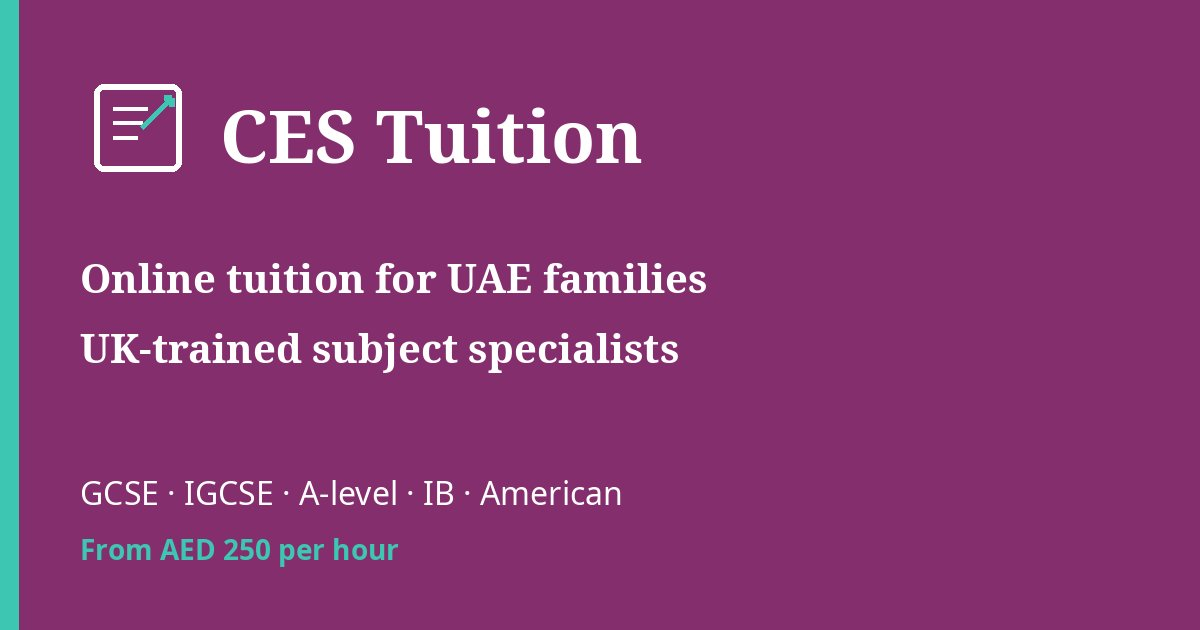
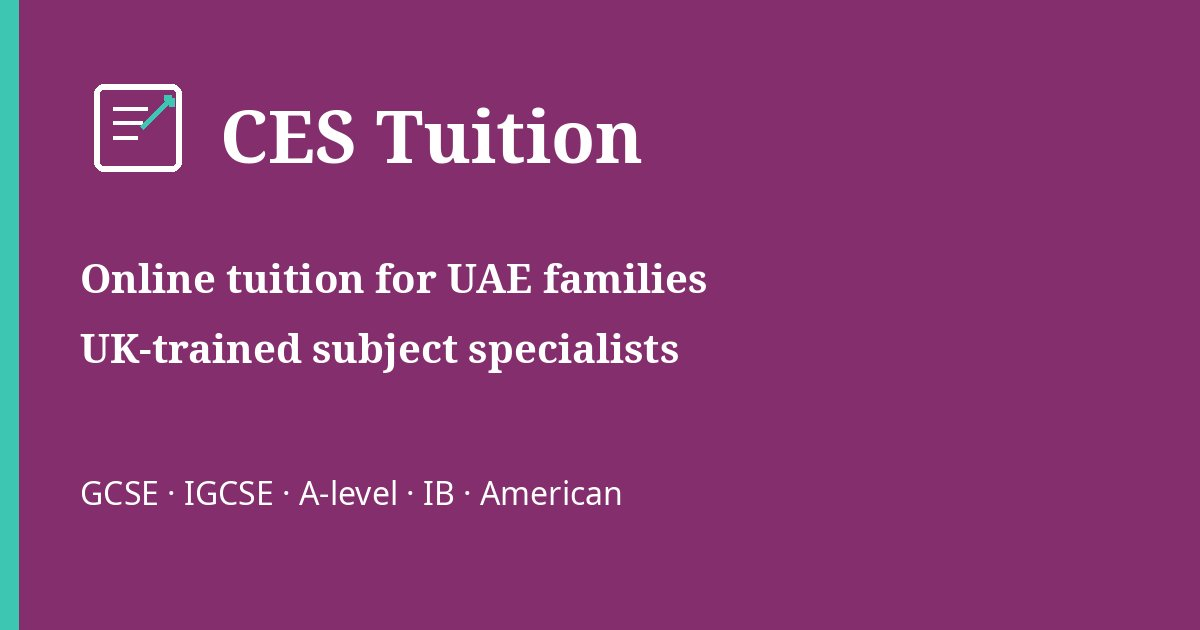
Remove the published hourly price.
Keep the review line and the tiers, and point parents to WhatsApp for prices.

Changed region(s): [[0.0617, 0.8444, 0.3392, 0.9048]]

diff --git a/index.html b/index.html
@@ -5,18 +5,18 @@
     <meta charset="UTF-8" />
     <meta name="viewport" content="width=device-width, initial-scale=1.0" />
     <title>Online Tutors in the UAE | GCSE, IGCSE, A-level, IB and American | CES Tuition</title>
-    <meta name="description" content="UK-trained subject specialists teaching GCSE, IGCSE, A-level, IB and American curricula live online for families across the UAE. 38 five-star reviews. From AED 250 per hour." />
+    <meta name="description" content="UK-trained subject specialists teaching GCSE, IGCSE, A-level, IB and American curricula live online for families across the UAE. 38 five-star reviews." />
     <link rel="canonical" href="https://www.cestuition.com/" />
     <meta property="og:type" content="website" />
     <meta property="og:url" content="https://www.cestuition.com/" />
     <meta property="og:title" content="CES Tuition: UK-trained online tutors for UAE families" />
-    <meta property="og:description" content="GCSE, IGCSE, A-level, IB and American curricula, live online across all emirates. From AED 250 per hour." />
+    <meta property="og:description" content="GCSE, IGCSE, A-level, IB and American curricula, live online across all emirates." />
     <meta property="og:image" content="https://www.cestuition.com/og-image.jpg" />
     <meta property="og:image:width" content="1200" />
     <meta property="og:image:height" content="630" />
     <meta name="twitter:card" content="summary_large_image" />
     <meta name="twitter:title" content="CES Tuition: UK-trained online tutors for UAE families" />
-    <meta name="twitter:description" content="GCSE, IGCSE, A-level, IB and American curricula, live online across all emirates. From AED 250 per hour." />
+    <meta name="twitter:description" content="GCSE, IGCSE, A-level, IB and American curricula, live online across all emirates." />
     <meta name="twitter:image" content="https://www.cestuition.com/og-image.jpg" />
     <link rel="icon" href="/favicon.svg" type="image/svg+xml" />
     <link rel="icon" href="/favicon.ico" sizes="any" />

diff --git a/src/components/Pricing.tsx b/src/components/Pricing.tsx
@@ -1,6 +1,7 @@
 import { Button } from '@/components/ui/button'
 import { Card } from '@/components/ui/card'
 import { Check } from '@phosphor-icons/react'
+import { whatsappUrl } from '@/lib/whatsapp'
 
 const pricingTiers = [
   {
@@ -41,8 +42,10 @@ export function Pricing() {
           <h2 className="text-3xl sm:text-4xl md:text-5xl font-bold text-foreground mb-6">
             Pricing
           </h2>
-          <p className="text-lg md:text-xl text-muted-foreground leading-relaxed">
-            Lessons start from <span className="font-semibold text-foreground">AED 250 per hour</span>. The rate depends on the level and the subject. We confirm it before the first lesson.
+          <p className="text-lg md:text-xl leading-relaxed">
+            <a href={whatsappUrl()} className="font-semibold text-foreground underline underline-offset-4 hover:text-primary">
+              Message us on WhatsApp for prices
+            </a>
           </p>
         </div>
 

diff --git a/src/components/Hero.tsx b/src/components/Hero.tsx
@@ -45,8 +45,6 @@ export function Hero() {
                 38 five-star reviews on MyPrivateTutor
               </a>
             </span>
-            <span className="hidden sm:inline" aria-hidden="true">·</span>
-            <span className="font-semibold">From AED 250 per hour</span>
           </p>
 
           <div className="flex flex-col sm:flex-row gap-3 justify-center items-center pt-2">
